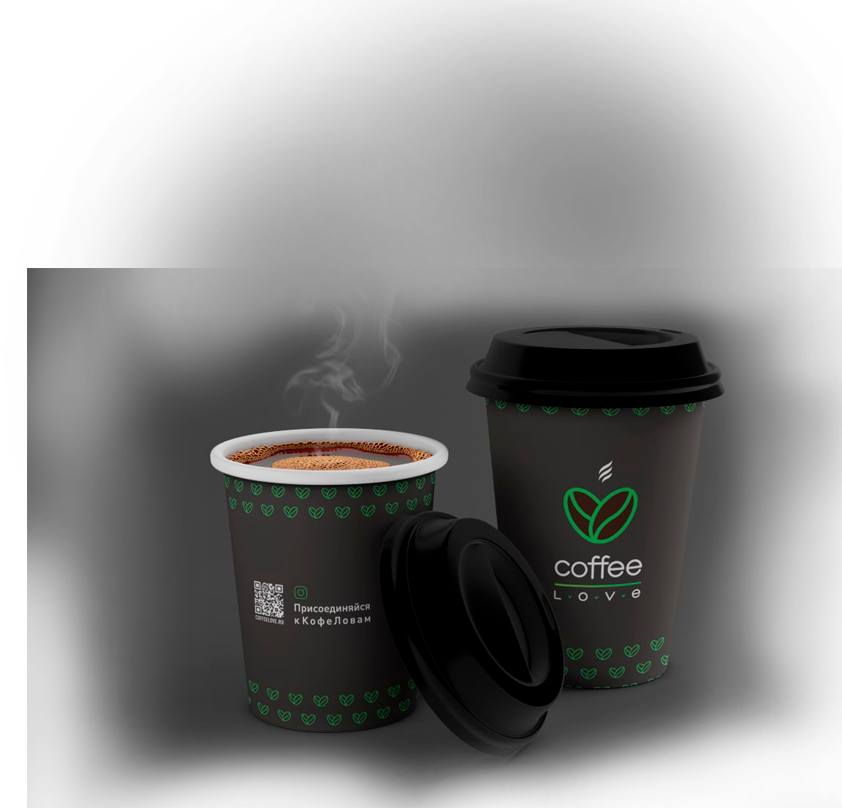
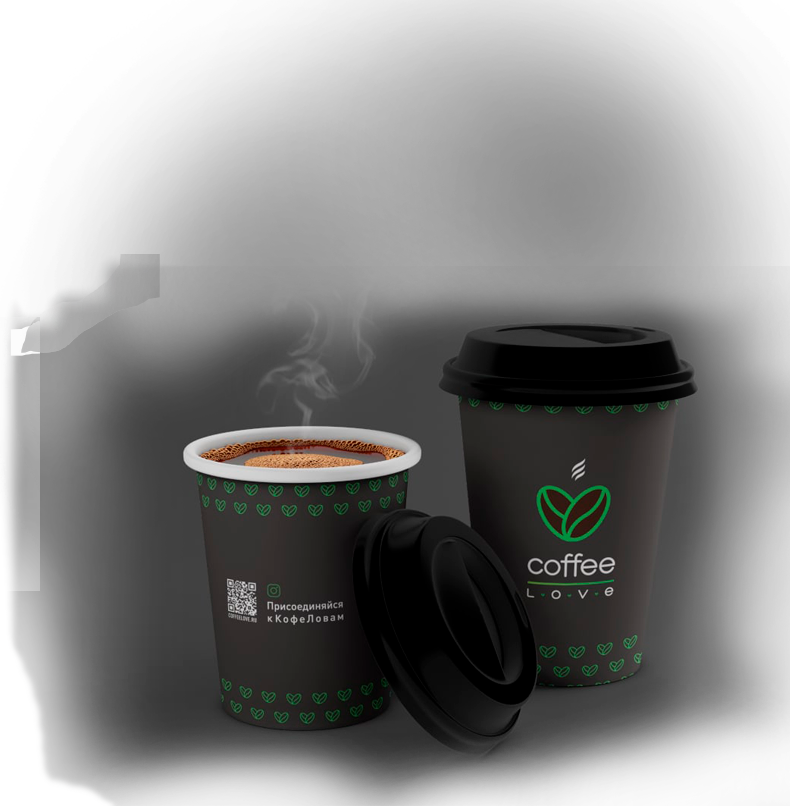
Add files via upload

diff --git a/index.html b/index.html
@@ -42,7 +42,7 @@
                         <address>Санкт-Петербург, БЦ Престиж,<br/>Московское шоссе, 25 А , офис 410</address>
                     </div>
                     <div class="h-col-2">
-                        <a href="mailto:info@coffelove.ru" class="h-mail">info@coffelove.ru</a>
+                        <a href="mailto:Info@coffeelove.ru" class="h-mail">Info@coffeelove.ru</a>
                         <a href="tel:+7 (905) 262-41-21" class="h-tel">+7 (905) 262-41-21</a>
                         <a href="#callback" rel="facebox" class="h-tel-link">Заказать звонок</a>
                     </div>
@@ -86,18 +86,19 @@
             <h1><span>CoffeeLove – </span>cовременная <br />кофейня самообслуживания</h1>
             <div class="row">
                 <div class="col-md-3 col-sm-4">
-                    <div class="txt-gr">Команда CoffeeLove</div>
-                    <p>Мы молодая, быстрорастущая сеть, специализирующаяся на технологии управления кофейнями Coffee to go.</p>
+                    <div class="txt-gr">Давайте знакомиться!</div>
+                    <p>Мы занимаемся установкой готовых кофе-станций по продаже кофе с собой.</p>
                 </div>
                 <div class="col-md-3 col-sm-4">
-                    <div class="txt-gr">Вендинг в прошлом!</div>
-                    <p>Представляем совершенно новую кофейню самообслуживания работающую без персонала.</p>
+                    <div class="txt-gr">Команда CoffeeLove</div>
+                    <p>Мы молодая, быстрорастущая сеть, специализирующаяся на технологии управления кофейнями <span class="green">Coffee To Go</span>.</p>
                 </div>
+                
             </div> 
             <div class="row">
                 <div class="col-md-3 col-sm-4">
-                    <div class="txt-gr">Давайте знакомиться!</div>
-                    <p>Мы занимаемся установкой готовых кофе-станций по продаже кофе с собой.</p>
+                    <div class="txt-gr">Вендинг в прошлом!</div>
+                    <p>Представляем совершенно новую кофейню самообслуживания работающую без персонала.</p>
                 </div>
                 <div class="col-md-3 col-sm-4">
                     <div class="txt-gr">Установим кофейню</div>
@@ -150,12 +151,12 @@
                     <p>Повысьте уровень сервиса для Ваших клиентов</p>
                 </div>
                 <div class="col-md-3 col-sm-4">
-                    <div class="bl3-ttl" id="sp2">Безопасность</div>
-                    <p>Дополнительная безопасность за счет установки WI-FI-камеры</p>
-                </div>
-                <div class="col-md-3 col-sm-4">
                     <div class="bl3-ttl" id="sp3">Возможности</div>
                     <p>Изготовления кофе-пойнта по Вашим индивидуальным предпочтениям</p>
+                </div>
+                <div class="col-md-3 col-sm-4">
+                    <div class="bl3-ttl" id="sp2">Безопасность</div>
+                    <p>Дополнительная безопасность за счет установки WI-FI-камеры</p>
                 </div>
             </div>
             <div class="row">
@@ -206,7 +207,7 @@
         <section class="container txt-cont-5 txt-cont" id="bl5">
             <div class="h1">Разнообразие напитков на любой вкус!</div>
 
-            <div class="coffee-st">
+    <!--        <div class="coffee-st">
                 <div class="line-1 owl-slide">
                     <div class="st-ttl">ДВОЙНОЙ ЭСПРЕССО</div>
                     <div class="img"><img src="images/stak1.png" alt="ДВОЙНОЙ ЭСПРЕССО" title="ДВОЙНОЙ ЭСПРЕССО" /></div>
@@ -253,7 +254,7 @@
                     <div class="st-ttl">МОККАЧИНО</div>
                 </div>
             </div>
-
+-->
 
             <div class="coffee-st coffee-st2">
                 <div class="line-1">
@@ -352,6 +353,7 @@
                 <div class="socseti">
                     <a href="#" target="_blank" title="вКонтакте" rel="nofollow" class="vk"></a>
                     <a href="#" target="_blank" title="Instagram" rel="nofollow" class="inst"></a>
+                    <a href="mailto:Info@coffeelove.ru" class="f-mail">Info@coffeelove.ru</a>
                 </div>
             </div>
         </section>

diff --git a/css/media.css b/css/media.css
@@ -73,10 +73,12 @@
         z-index: 1;
     }
     .txt-cont-2 {
-        background: url(../images/stakan.png) center bottom no-repeat #d9e1e9;
+        background: url(../images/stakan_l.png) center bottom no-repeat, 
+                    url(../images/paket_bg.jpg) center bottom no-repeat #d9e1e9;
     }
     .txt-cont-3 {
-        background: url(../images/stakan3.jpg) right bottom no-repeat #404040;
+        background: url(../images/stakan3.png) right bottom no-repeat,
+        url(../images/logo_bot.png) center center no-repeat #404040;
     }
     .bl3-ttl {
         padding: 63px 0 10px;
@@ -111,7 +113,8 @@
         font-size: 48px;
     }
     .txt-cont-7 {
-        background: url(../images/logo_bot.png) center center no-repeat  , 
+        background: url(../images/kruassan.png) right bottom no-repeat,
+                    url(../images/logo_bot.png) center center no-repeat,  
                     url(../images/back7.jpg);
     }
     .copyr {
@@ -136,7 +139,9 @@
     .coffee-link {
         margin: 160px 0 0 34px;
     }
-    
+    a.f-mail {
+        display: none;
+    }
 }
 
 @media (min-width: 768px) and (max-width: 991px) {
@@ -160,7 +165,7 @@
 }
 
 @media screen and (min-width: 992px) {
-    .h-tel {
+    .h-tel, .h-tel:hover, .h-tel:focus, .h-tel:active {
         display: inline-block;
         margin-top: 38px;
     }
@@ -425,7 +430,8 @@
         right: -62px!important;
     }
     .txt-cont-3 {
-        background: url(../images/stakan3_m.png) right bottom no-repeat #404040;
+        background: url(../images/stakan3_m.png) right bottom no-repeat, 
+                    url(../images/logo_bot_mob.png) center center no-repeat #404040;
     }
     .txt-cont-2 {
         background: url(../images/stakan_m.png) center bottom no-repeat #d9e1e9;

diff --git a/css/style.css b/css/style.css
@@ -617,7 +617,7 @@ h1, .h1 {
     background: url(../images/tech2.png) 75px 35px no-repeat;
 }
 .txt-cont-7 {
-    background: url(../images/logo_bot_mob.png) center center no-repeat  , 
+    background: url(../images/logo_bot_mob.png) center center no-repeat, 
                 url(../images/back7.jpg);
 }
 .txt-cont-7 .h1 {
@@ -750,4 +750,13 @@ div.owl-controls {
 }
 .mobile .line-1 img {
     margin-top: 4px;
+}
+a.f-mail, a.f-mail:active, a.f-mail:hover, a.f-mail:visited {
+    color: #fff;
+    font-size: 18px;
+    margin-left: 20px;
+    position: relative;
+    width: auto;
+    height: auto;
+    top: -10px;
 }
